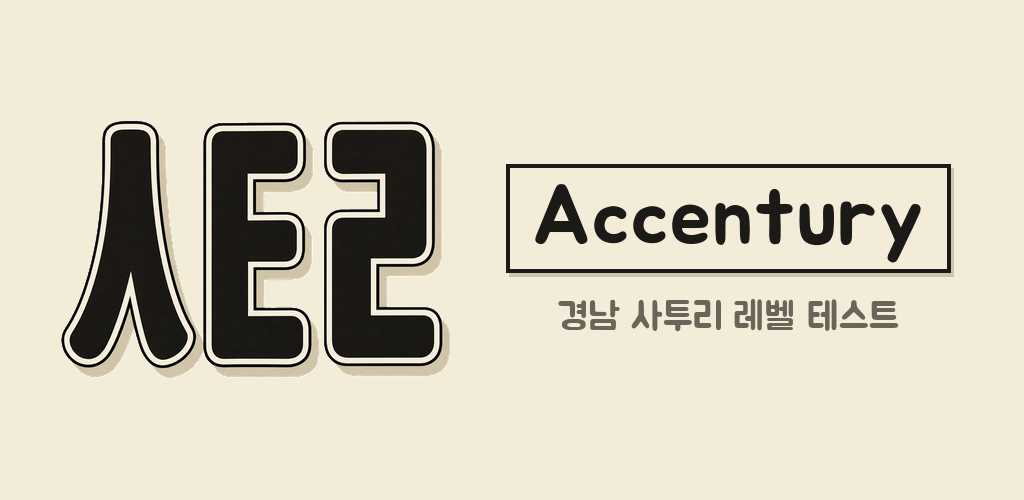
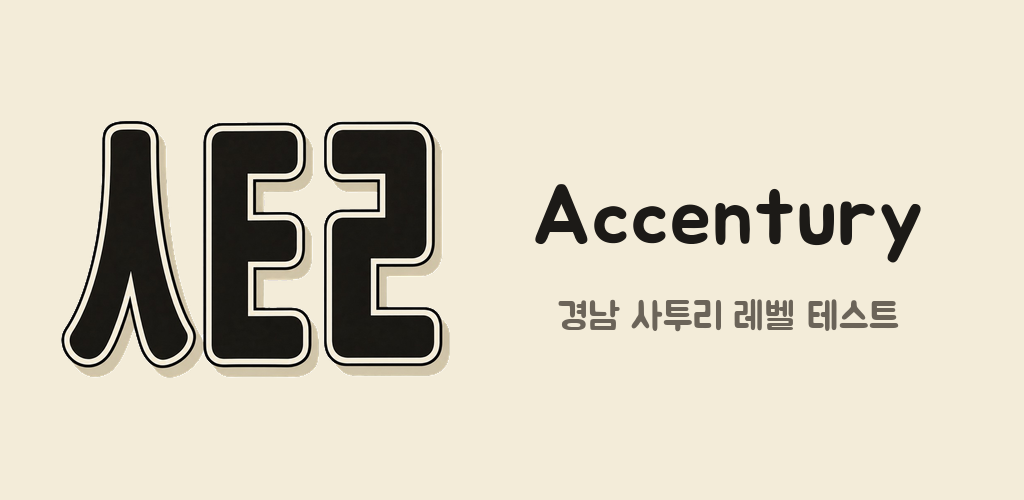
KAN-178 Play 그래픽 이미지 - 앱 이름 종이 조각(테두리·그림자) 제거, 잉크 글자만
Claude-Session: https://claude.ai/code/session_01Nud2Q8pYYmbEKkf6aeyY5Q

Changed region(s): [[0.4688, 0.33, 0.9375, 0.57]]

diff --git a/assets/app-icon/build.py b/assets/app-icon/build.py
@@ -383,10 +383,11 @@ def build_ios(motif: Image.Image) -> list[Path]:
 
 
 def feature_graphic(motif: Image.Image) -> Image.Image:
-    """Play 스토어 피처 그래픽. 좌측 도상 + 우측 앱 이름 종이 조각 + 태그라인.
+    """Play 스토어 피처 그래픽. 좌측 도상 + 우측 앱 이름 + 태그라인.
 
-    글자는 공유 카드(`assets/characters/build.py`)와 같은 처리다 — 크림 조각에 잉크 테두리와
-    오프셋 그림자. 앱 이름 말고 다른 문구는 넣지 않는다(Play 정책: 기기 사진·평점·가격 금지).
+    앱 이름은 잉크 글자만 둔다 — 공유 카드처럼 종이 조각(테두리·그림자)에 넣었더니 도상의 종이 림과
+    겹쳐 사각형이 하나 더 보이는 느낌이라 뺐다(2026-09-03). 앱 이름 말고 다른 문구는 넣지
+    않는다(Play 정책: 기기 사진·평점·가격 금지).
     """
     if not FONT_JUA.exists():
         raise SystemExit(f"Jua 폰트가 없다: {FONT_JUA}")
@@ -401,7 +402,7 @@ def feature_graphic(motif: Image.Image) -> Image.Image:
     left = fx + fig.width + 56
     avail = FEATURE_W - margin - left
 
-    # 앱 이름 조각. 폭이 남는 여백을 넘으면 글자를 줄인다 — 잘린 이름이 스토어에 걸리는 게 최악이다.
+    # 앱 이름. 폭이 남는 여백을 넘으면 글자를 줄인다 — 잘린 이름이 스토어에 걸리는 게 최악이다.
     pad_x, pad_y = 26, 12
     size = 104
     while True:
@@ -417,10 +418,8 @@ def feature_graphic(motif: Image.Image) -> Image.Image:
     block_h = chip_h + gap + 38
     top = (FEATURE_H - block_h) // 2
 
-    draw.rectangle([left + 3, top + 4, left + chip_w + 3, top + chip_h + 4], fill=PAPER_SHADOW)
-    draw.rectangle([left, top, left + chip_w, top + chip_h], fill=CREAM, outline=INK, width=4)
     draw.text((left + pad_x, top + chip_h // 2), FEATURE_TITLE, font=title_font, fill=INK, anchor="lm")
-    # 태그라인은 조각 폭 기준 가운데 정렬 — 왼쪽 맞춤이면 조각보다 훨씬 짧아 오른쪽이 비어 보인다
+    # 태그라인은 앱 이름 폭 기준 가운데 정렬 — 왼쪽 맞춤이면 이름보다 훨씬 짧아 오른쪽이 비어 보인다
     draw.text((left + chip_w // 2, top + chip_h + gap), FEATURE_SUB, font=sub_font, fill=MUTED, anchor="ma")
     return card.convert("RGB")
 
